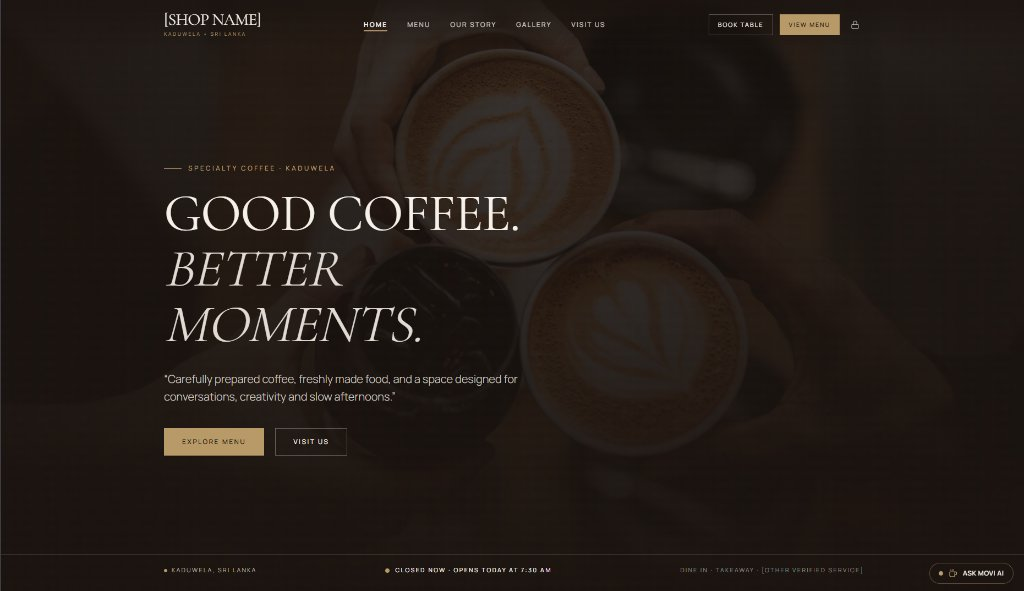
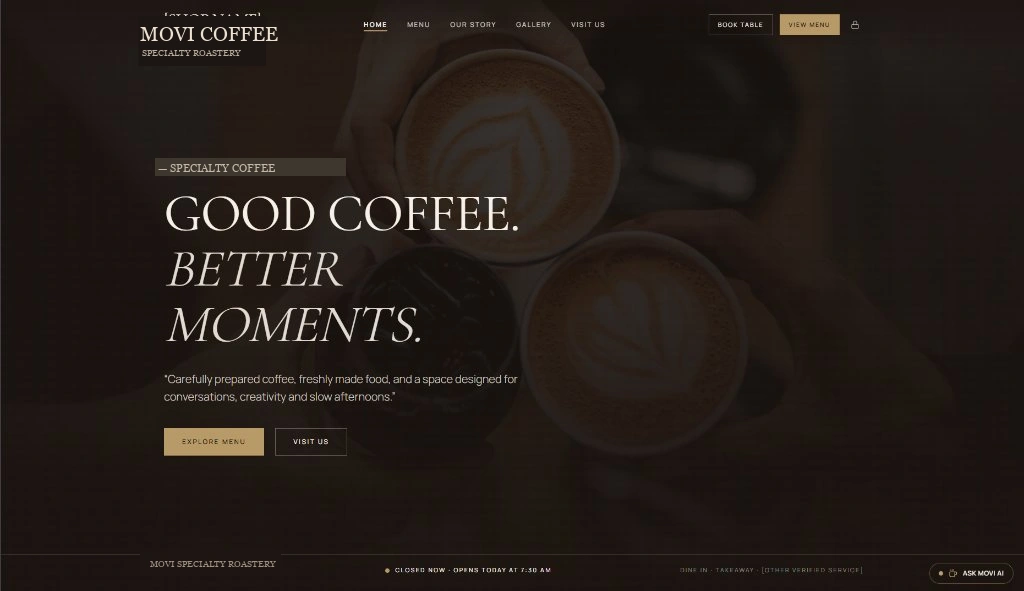
fix: remove cursor trail dot pollution, clean Kaduwela references and remove dots from Movi Coffee UI

Changed region(s): [[0.125, 0.2437, 0.3438, 0.3046], [0.125, 0.0305, 0.2812, 0.0914], [0.1562, 0.9442, 0.2812, 0.9746]]

diff --git a/src/components/cyber/ProjectsCyber.jsx b/src/components/cyber/ProjectsCyber.jsx
@@ -192,7 +192,7 @@ const PROJECTS = [
     id: "movi-coffee",
     title: "Movi Coffee — Specialty Coffee & AI Experience Platform",
     blurb: "Editorial hospitality web experience featuring an interactive table reservation engine, dynamic dietary menu explorer, and an integrated AI barista concierge ('Ask Movi AI').",
-    longDescription: "A bespoke, high-end digital hospitality experience created for Movi Coffee specialty roastery in Kaduwela, Sri Lanka. Moves beyond generic café layouts into warm editorial typography, atmospheric photography reveals, real-time live operational status, Supabase-backed table booking, and a conversational AI concierge for coffee pairings.",
+    longDescription: "A bespoke, high-end digital hospitality experience created for Movi Coffee specialty roastery. Moves beyond generic café layouts into warm editorial typography, atmospheric photography reveals, real-time live operational status, Supabase-backed table booking, and a conversational AI concierge for coffee pairings.",
     category: "UI/UX",
     tech: ["Next.js 16", "React 19", "TypeScript", "Tailwind CSS v4", "Framer Motion", "Supabase", "AI Concierge"],
     live: true,
@@ -337,24 +337,12 @@ function ProjectDeepDiveModal({ project, onClose }) {
                   </div>
                 ) : (
                   <div className="flex items-center justify-between px-3.5 sm:px-4 py-2 sm:py-2.5 bg-slate-900/95 dark:bg-black/95 backdrop-blur-md border-b border-white/10 text-xs font-mono">
-                    <div className="flex items-center gap-3">
-                      <div className="flex items-center gap-1.5">
-                        <span className="w-2.5 h-2.5 rounded-full bg-rose-500/80 inline-block" />
-                        <span className="w-2.5 h-2.5 rounded-full bg-amber-500/80 inline-block" />
-                        <span className="w-2.5 h-2.5 rounded-full bg-emerald-500/80 inline-block" />
-                      </div>
-                      <div className="flex items-center gap-1.5 px-3 py-0.5 rounded-full bg-white/5 border border-white/10 text-[10px] text-slate-300">
-                        <span className="text-emerald-400">https://</span>
-                        <span>{project.id === "movi-coffee" ? "movi-coffee.lk/specialty-roastery" : "interactive-experience.live"}</span>
-                      </div>
-                    </div>
-                    <div className="flex items-center gap-2 text-[10px] text-slate-300">
-                      <span className="relative flex h-1.5 w-1.5">
-                        <span className="animate-ping absolute inline-flex h-full w-full rounded-full bg-emerald-400 opacity-75" />
-                        <span className="relative inline-flex rounded-full h-1.5 w-1.5 bg-emerald-500" />
-                      </span>
-                      <span className="text-emerald-400 font-medium">Editorial UI/UX • Supabase</span>
-                    </div>
+                    <span className="text-slate-200 font-bold uppercase tracking-wider text-[11px]">
+                      MOVI COFFEE // SPECIALTY ROASTERY & AI PLATFORM
+                    </span>
+                    <span className="text-cyan-400 font-semibold text-[10px] uppercase tracking-wider">
+                      Next.js 16 / Supabase
+                    </span>
                   </div>
                 )}
 
@@ -592,24 +580,13 @@ function ExpandableProjectCard({ project, isExpanded, onSelect, onInspect }) {
                     <span className="text-cyan-400 text-[9px] uppercase tracking-wider font-semibold">12ms • Armed</span>
                   </div>
                 ) : (
-                  <div className="flex items-center justify-between px-3 py-1.5 bg-slate-900/90 dark:bg-black/90 backdrop-blur-md border-b border-white/10 text-[10px] font-mono">
-                    <div className="flex items-center gap-2">
-                      <div className="flex items-center gap-1">
-                        <span className="w-2 h-2 rounded-full bg-rose-500/80 inline-block" />
-                        <span className="w-2 h-2 rounded-full bg-amber-500/80 inline-block" />
-                        <span className="w-2 h-2 rounded-full bg-emerald-500/80 inline-block" />
-                      </div>
-                      <span className="text-slate-300 font-medium text-[9px] tracking-wide">
-                        {project.id === "movi-coffee" ? "movi-coffee.lk • Kaduwela" : "Web Experience"}
-                      </span>
-                    </div>
-                    <div className="flex items-center gap-1.5">
-                      <span className="relative flex h-1.5 w-1.5">
-                        <span className="animate-ping absolute inline-flex h-full w-full rounded-full bg-emerald-400 opacity-75" />
-                        <span className="relative inline-flex rounded-full h-1.5 w-1.5 bg-emerald-500" />
-                      </span>
-                      <span className="text-emerald-400 text-[9px] uppercase tracking-wider font-semibold">Live UI/UX</span>
-                    </div>
+                  <div className="flex items-center justify-between px-3.5 py-2 bg-slate-900/95 dark:bg-black/95 backdrop-blur-md border-b border-white/10 text-[10px] font-mono">
+                    <span className="text-slate-200 font-semibold tracking-wider text-[10px]">
+                      MOVI COFFEE // SPECIALTY ROASTERY & AI PLATFORM
+                    </span>
+                    <span className="text-emerald-400 text-[9px] uppercase tracking-wider font-semibold">
+                      Live UI/UX
+                    </span>
                   </div>
                 )}
 

diff --git a/src/App.jsx b/src/App.jsx
@@ -3,7 +3,6 @@ import { motion, AnimatePresence } from "framer-motion";
 import { Sun, Moon } from "lucide-react";
 import Lenis from "lenis";
 import CustomCursor from "./components/CustomCursor";
-import CursorTrail from "./components/CursorTrail";
 import IntroLoader from "./components/IntroLoader";
 import ScrollProgressBar from "./components/ScrollProgressBar";
 import FloatingDockCyber from "./components/cyber/FloatingDockCyber";
@@ -174,7 +173,6 @@ export default function App() {
 
       {/* Custom Glow Cursor (Auto-disabled on mobile) */}
       <CustomCursor />
-      <CursorTrail />
 
       {/* Scroll Progress Bar — thin brand gradient at top */}
       <ScrollProgressBar />
